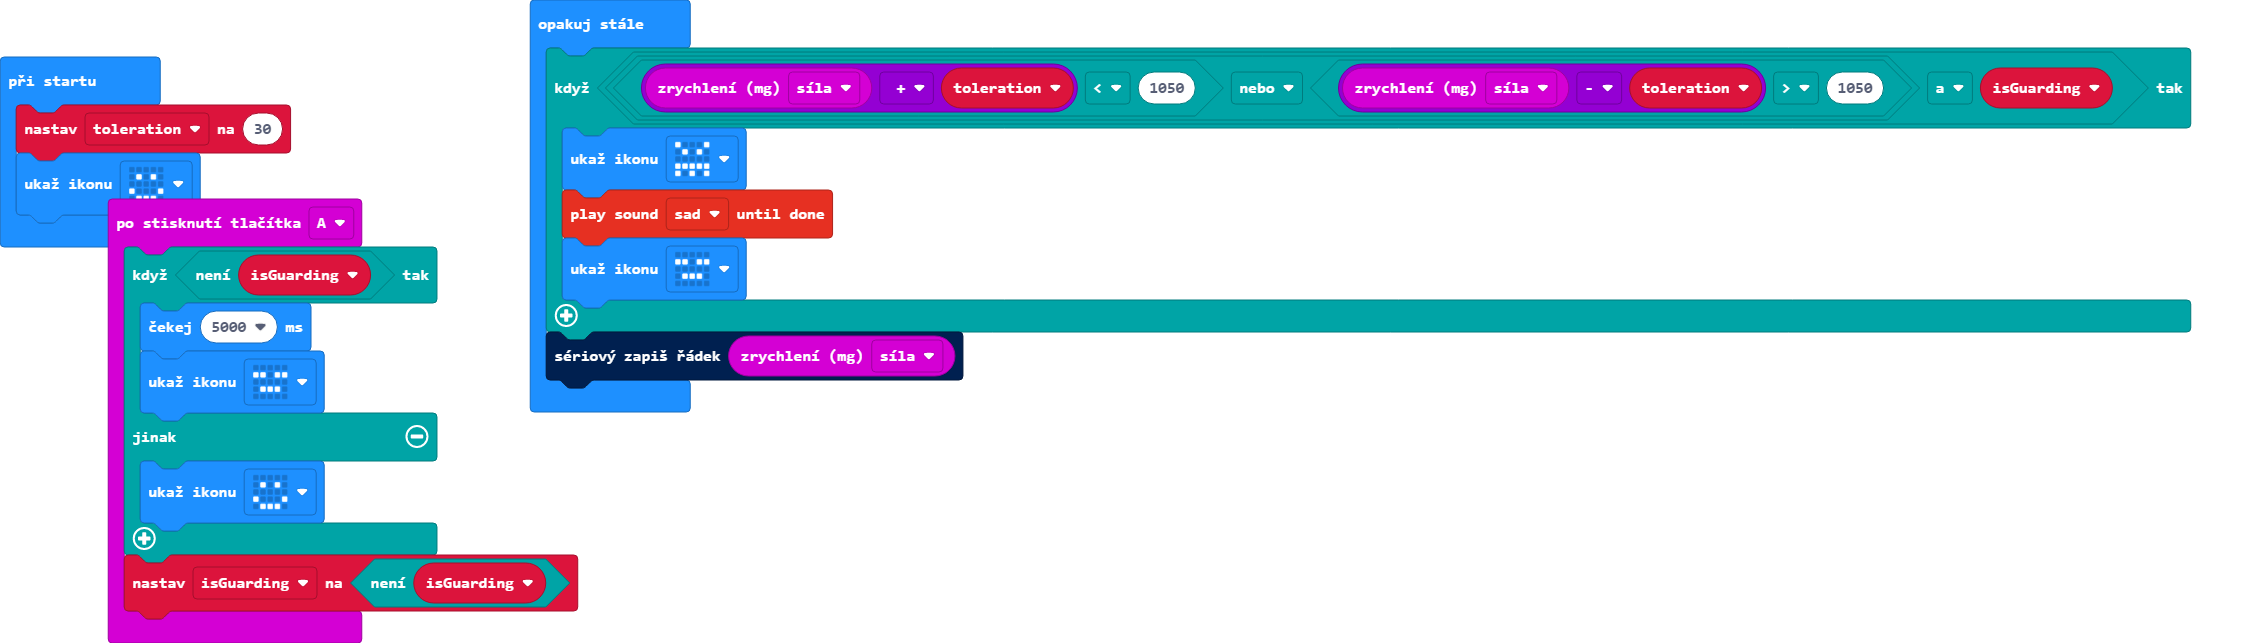
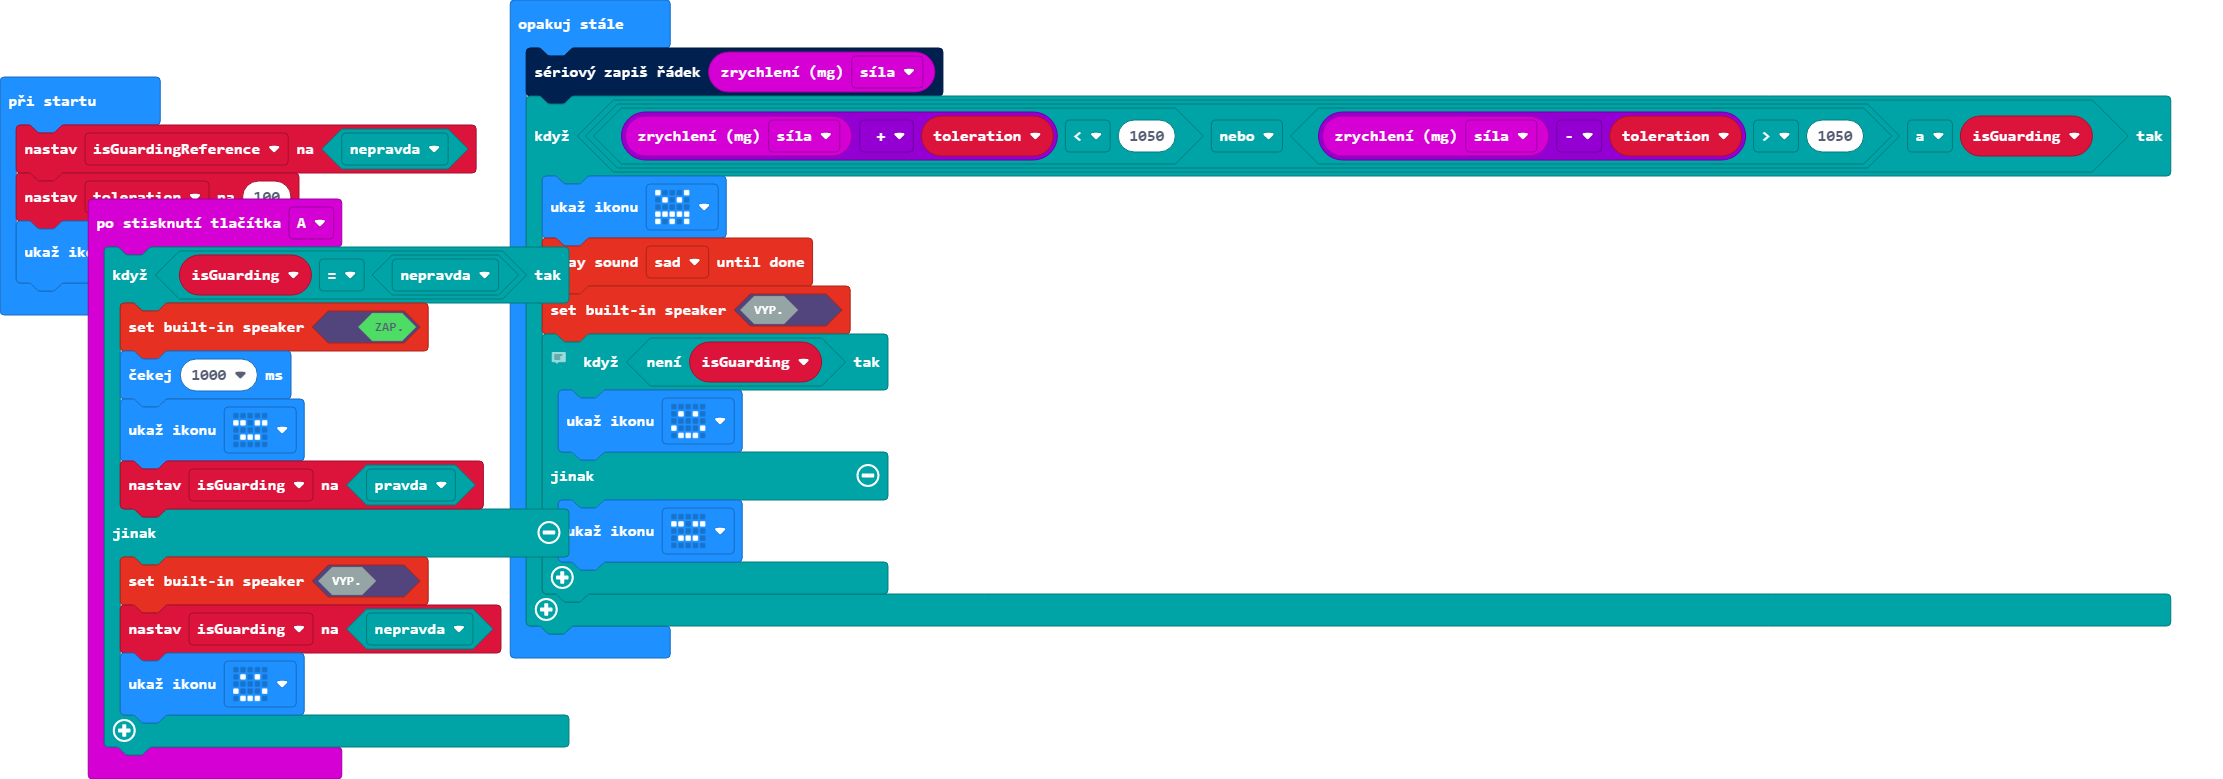
bug fixed + turning speaker on/off

diff --git a/main.ts b/main.ts
@@ -1,13 +1,17 @@
 input.onButtonPressed(Button.A, function () {
-    if (!(isGuarding)) {
-        basic.pause(5000)
+    if (isGuarding == false) {
+        music.setBuiltInSpeakerEnabled(true)
+        basic.pause(2500)
         basic.showIcon(IconNames.Asleep)
+        isGuarding = true
     } else {
+        music.setBuiltInSpeakerEnabled(false)
+        isGuarding = false
         basic.showIcon(IconNames.Happy)
     }
-    isGuarding = !(isGuarding)
 })
 let isGuarding = false
+let isGuardingReference = false
 let toleration = 100
 basic.showIcon(IconNames.Happy)
 basic.forever(function () {
@@ -15,6 +19,13 @@ basic.forever(function () {
     if ((input.acceleration(Dimension.Strength) + toleration < 1050 || input.acceleration(Dimension.Strength) - toleration > 1050) && isGuarding) {
         basic.showIcon(IconNames.Angry)
         soundExpression.sad.playUntilDone()
-        basic.showIcon(IconNames.Asleep)
+        // zde dochází k zajímavému problému: když zmáčknu tlačítko A, mezitím co
+        // hraje melodie, přepne se displej do Happy. Ovšak po skončení melodie se
+        // provede zobrazení Asleep. Proto
+        if (!(isGuarding)) {
+            basic.showIcon(IconNames.Happy)
+        } else {
+            basic.showIcon(IconNames.Asleep)
+        }
     }
 })
